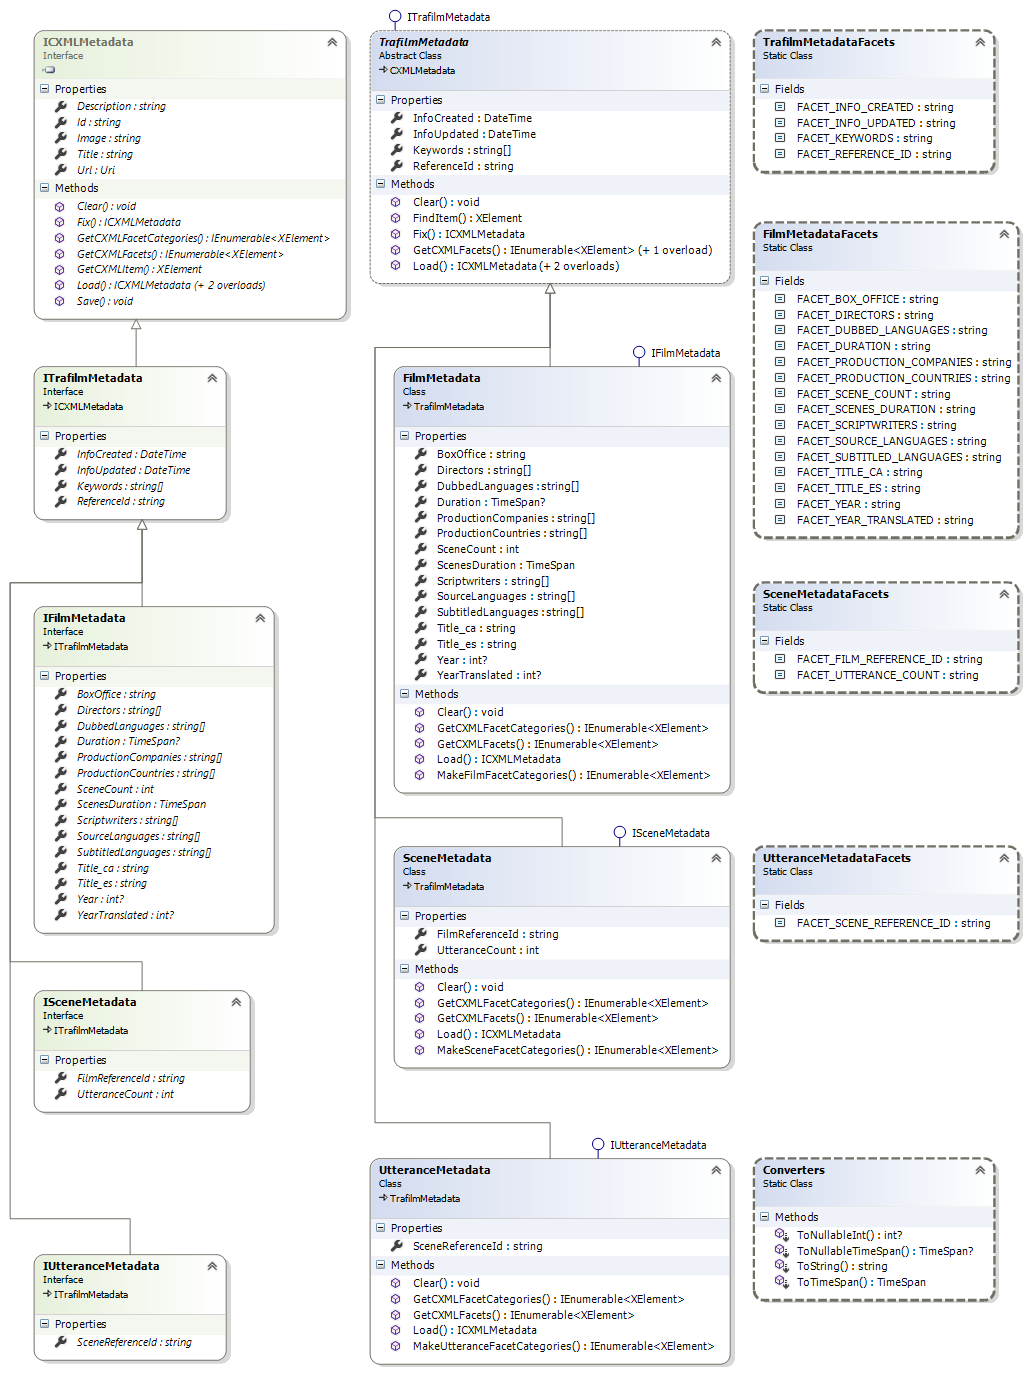
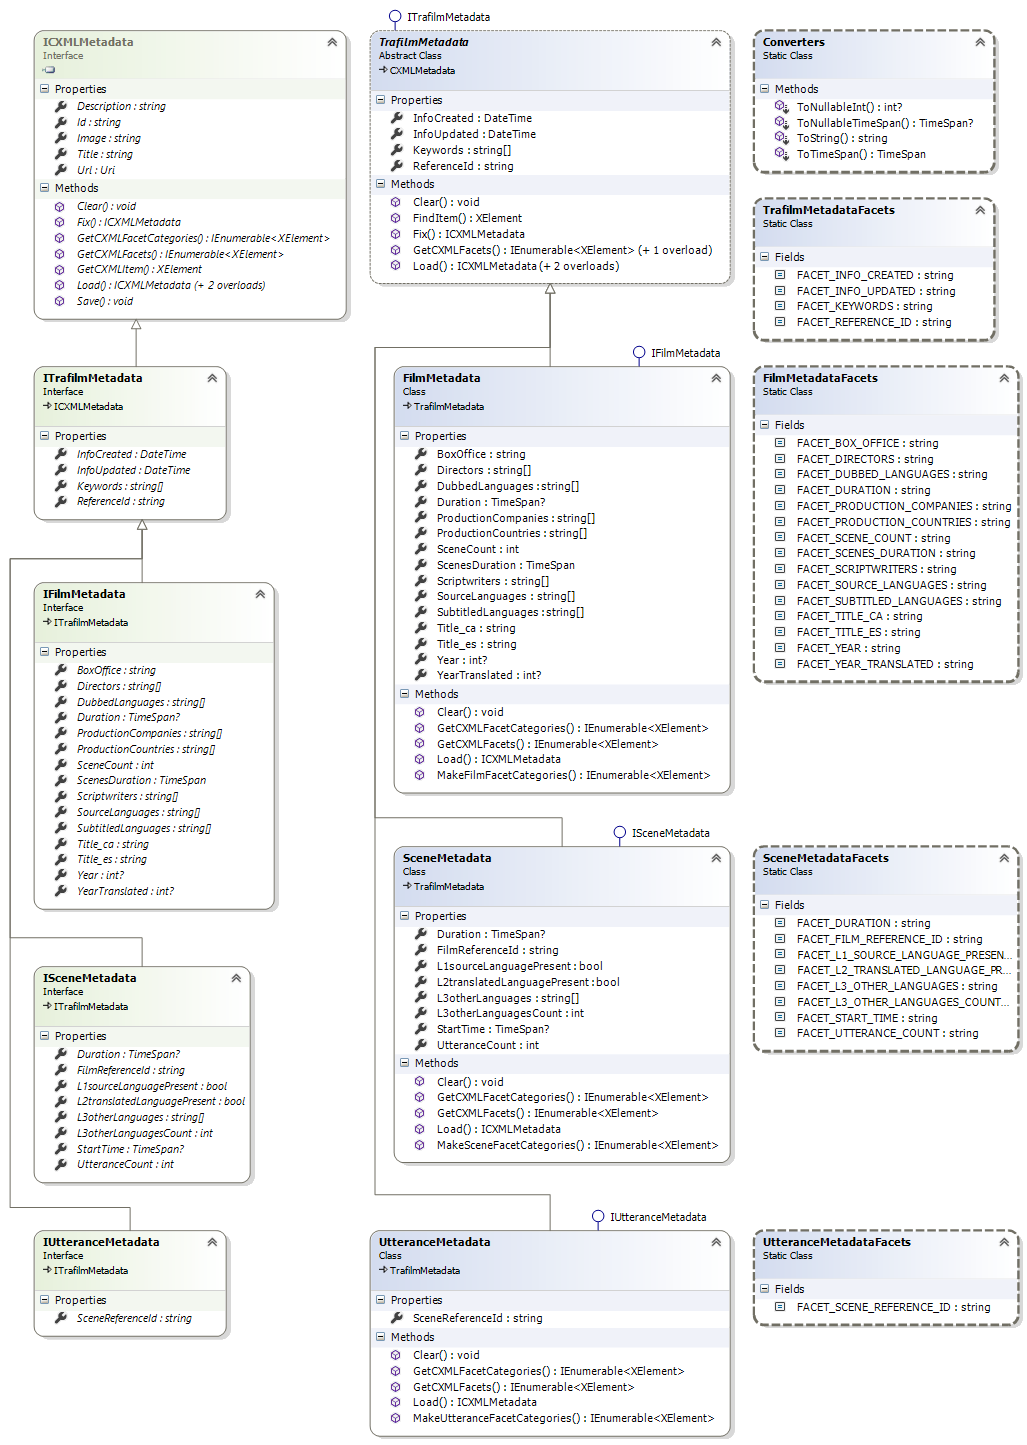
- Completed Scene metadata

diff --git a/Metadata/Scene/SceneMetadata.cs b/Metadata/Scene/SceneMetadata.cs
@@ -1,9 +1,9 @@
 //Project: Trafilm (http://trafilm.net)
 //Filename: SceneMetadata.cs
-//Version: 20160502
+//Version: 20160503
 
 using Metadata.CXML;
-
+using System;
 using System.Collections.Generic;
 using System.Xml.Linq;
 
@@ -17,7 +17,16 @@ namespace Trafilm.Metadata
 
     public string FilmReferenceId { get; set; }
 
-    //...
+    public TimeSpan? StartTime { get; set; }
+    public TimeSpan? Duration { get; set; }
+
+    public bool L1sourceLanguagePresent { get; set; }
+    public bool L2translatedLanguagePresent { get; set; }
+
+    //Calculatable//
+
+    public int L3otherLanguagesCount { get; set; }
+    public string[] L3otherLanguages { get; set; }
 
     public int UtteranceCount { get; set; }
 
@@ -31,7 +40,14 @@ namespace Trafilm.Metadata
 
       FilmReferenceId = "";
 
-      //...
+      StartTime = null;
+      Duration = null;
+
+      L1sourceLanguagePresent = true; //this is the most usual case
+      L2translatedLanguagePresent = true; //this is the most usual case
+
+      L3otherLanguagesCount = 0;
+      L3otherLanguages = new string[] { };
 
       UtteranceCount = 0;
     }
@@ -44,7 +60,14 @@ namespace Trafilm.Metadata
 
       FilmReferenceId = facets.CXMLFacetStringValue(SceneMetadataFacets.FACET_FILM_REFERENCE_ID);
 
-      //...
+      StartTime = facets.CXMLFacetStringValue(SceneMetadataFacets.FACET_START_TIME).ToNullableTimeSpan("HH:MM:SS.FF");
+      Duration = facets.CXMLFacetStringValue(SceneMetadataFacets.FACET_DURATION).ToNullableTimeSpan("MM:SS.FF");
+
+      L1sourceLanguagePresent = facets.CXMLFacetBoolValue(SceneMetadataFacets.FACET_L1_SOURCE_LANGUAGE_PRESENT);
+      L2translatedLanguagePresent = facets.CXMLFacetBoolValue(SceneMetadataFacets.FACET_L2_TRANSLATED_LANGUAGE_PRESENT);
+
+      L3otherLanguagesCount = int.Parse(facets.CXMLFacetStringValue(SceneMetadataFacets.FACET_L3_OTHER_LANGUAGES_COUNT));
+      L3otherLanguages = facets.CXMLFacetStringValues(SceneMetadataFacets.FACET_L3_OTHER_LANGUAGES);
 
       UtteranceCount = int.Parse(facets.CXMLFacetStringValue(SceneMetadataFacets.FACET_UTTERANCE_COUNT));
 
@@ -65,7 +88,14 @@ namespace Trafilm.Metadata
 
       AddNonNullToList(facets, CXML.MakeStringFacet(SceneMetadataFacets.FACET_FILM_REFERENCE_ID, FilmReferenceId));
 
-      //...
+      AddNonNullToList(facets, CXML.MakeStringFacet(SceneMetadataFacets.FACET_START_TIME, StartTime.ToString("HH:MM:SS.FF")));
+      AddNonNullToList(facets, CXML.MakeStringFacet(SceneMetadataFacets.FACET_DURATION, Duration.ToString("MM:SS.FF")));
+
+      AddNonNullToList(facets, CXML.MakeStringFacet(SceneMetadataFacets.FACET_L1_SOURCE_LANGUAGE_PRESENT, L1sourceLanguagePresent.ToString())); //this will give True/False (not Yes/No)
+      AddNonNullToList(facets, CXML.MakeStringFacet(SceneMetadataFacets.FACET_L2_TRANSLATED_LANGUAGE_PRESENT, L2translatedLanguagePresent.ToString())); //this will give True/False (not Yes/No)
+
+      AddNonNullToList(facets, CXML.MakeStringFacet(SceneMetadataFacets.FACET_L3_OTHER_LANGUAGES_COUNT, L3otherLanguagesCount.ToString()));
+      AddNonNullToList(facets, CXML.MakeStringFacet(SceneMetadataFacets.FACET_L3_OTHER_LANGUAGES, L3otherLanguages));
 
       AddNonNullToList(facets, CXML.MakeStringFacet(SceneMetadataFacets.FACET_UTTERANCE_COUNT, UtteranceCount.ToString()));
 
@@ -84,7 +114,14 @@ namespace Trafilm.Metadata
 
       result.Add(CXML.MakeFacetCategory(SceneMetadataFacets.FACET_FILM_REFERENCE_ID, CXML.VALUE_STRING, null, isFilterVisible: true, isMetadataVisible: true, isWordWheelVisible: false));
 
-      //...
+      result.Add(CXML.MakeFacetCategory(SceneMetadataFacets.FACET_START_TIME, CXML.VALUE_STRING, null, isFilterVisible: true, isMetadataVisible: true, isWordWheelVisible: true));
+      result.Add(CXML.MakeFacetCategory(SceneMetadataFacets.FACET_DURATION, CXML.VALUE_STRING, null, isFilterVisible: true, isMetadataVisible: true, isWordWheelVisible: true));
+
+      result.Add(CXML.MakeFacetCategory(SceneMetadataFacets.FACET_L1_SOURCE_LANGUAGE_PRESENT, CXML.VALUE_STRING, null, isFilterVisible: true, isMetadataVisible: true, isWordWheelVisible: true));
+      result.Add(CXML.MakeFacetCategory(SceneMetadataFacets.FACET_L2_TRANSLATED_LANGUAGE_PRESENT, CXML.VALUE_STRING, null, isFilterVisible: true, isMetadataVisible: true, isWordWheelVisible: true));
+
+      result.Add(CXML.MakeFacetCategory(SceneMetadataFacets.FACET_L3_OTHER_LANGUAGES_COUNT, CXML.VALUE_STRING, null, isFilterVisible: true, isMetadataVisible: true, isWordWheelVisible: true));
+      result.Add(CXML.MakeFacetCategory(SceneMetadataFacets.FACET_L3_OTHER_LANGUAGES, CXML.VALUE_STRING, null, isFilterVisible: true, isMetadataVisible: true, isWordWheelVisible: true));
 
       result.Add(CXML.MakeFacetCategory(SceneMetadataFacets.FACET_UTTERANCE_COUNT, CXML.VALUE_STRING, null, isFilterVisible: true, isMetadataVisible: true, isWordWheelVisible: true));
 

diff --git a/Metadata/Scene/SceneMetadataFacets.cs b/Metadata/Scene/SceneMetadataFacets.cs
@@ -1,6 +1,6 @@
 //Project: Trafilm (http://trafilm.net)
 //Filename: SceneMetadataFacets.cs
-//Version: 20160501
+//Version: 20160502
 
 namespace Trafilm.Metadata
 {
@@ -9,7 +9,16 @@ namespace Trafilm.Metadata
   {
     public const string FACET_FILM_REFERENCE_ID = "Film Reference Id";
 
-    //...
+    public const string FACET_START_TIME = "Start time (hh:mm:ss.fs)";
+    public const string FACET_DURATION = "Duration (mm:ss.fs)";
+
+    public const string FACET_L1_SOURCE_LANGUAGE_PRESENT = "L1-Source language present";
+    public const string FACET_L2_TRANSLATED_LANGUAGE_PRESENT = "L2-Translated language present";
+
+    //Calculatable//
+
+    public const string FACET_L3_OTHER_LANGUAGES_COUNT = "L3-Other language count";
+    public const string FACET_L3_OTHER_LANGUAGES = "L3-Other languages";
 
     public const string FACET_UTTERANCE_COUNT = "Utterance count";
   }

diff --git a/Metadata/Scene/ISceneMetadata.cs b/Metadata/Scene/ISceneMetadata.cs
@@ -1,6 +1,8 @@
 //Project: Trafilm (http://trafilm.net)
 //Filename: ISceneMetadata.cs
-//Version: 20160502
+//Version: 20160503
+
+using System;
 
 namespace Trafilm.Metadata
 {
@@ -12,7 +14,16 @@ namespace Trafilm.Metadata
 
     string FilmReferenceId { get; set; }
 
-    //...
+    TimeSpan? StartTime { get; set; }
+    TimeSpan? Duration { get; set; }
+
+    bool L1sourceLanguagePresent { get; set; }
+    bool L2translatedLanguagePresent { get; set; }
+
+    //Calculatable//
+
+    int L3otherLanguagesCount { get; set; }
+    string[] L3otherLanguages { get; set; }
 
     int UtteranceCount { get; set; }
 

diff --git a/Metadata/Film/FilmMetadataFacets.cs b/Metadata/Film/FilmMetadataFacets.cs
@@ -1,6 +1,6 @@
 //Project: Trafilm (http://trafilm.net)
 //Filename: FilmMetadataFacets.cs
-//Version: 20160501
+//Version: 20160502
 
 namespace Trafilm.Metadata
 {
@@ -27,6 +27,8 @@ namespace Trafilm.Metadata
     public const string FACET_YEAR_TRANSLATED = "Year translated";
     public const string FACET_DUBBED_LANGUAGES = "Dubbed languages";
     public const string FACET_SUBTITLED_LANGUAGES = "Subtitled languages";
+
+    //Calculatable//
 
     public const string FACET_SCENE_COUNT = "Scene count";
     public const string FACET_SCENES_DURATION = "Scenes duration (hh:mm:ss)";

diff --git a/Metadata/Film/FilmMetadata.cs b/Metadata/Film/FilmMetadata.cs
@@ -36,6 +36,8 @@ namespace Trafilm.Metadata
     public string[] DubbedLanguages { get; set; }
     public string[] SubtitledLanguages { get; set; }
 
+    //Calculatable//
+
     public int SceneCount { get; set; }
     public TimeSpan ScenesDuration { get; set; }
 
@@ -51,7 +53,7 @@ namespace Trafilm.Metadata
       Title_ca = "";
       //...
 
-      Duration = TimeSpan.Zero;
+      Duration = null;
 
       Directors = new string[] { };
       Scriptwriters = new string[] { };

diff --git a/Metadata/Film/IFilmMetadata.cs b/Metadata/Film/IFilmMetadata.cs
@@ -33,6 +33,8 @@ namespace Trafilm.Metadata
     string[] DubbedLanguages { get; set; }
     string[] SubtitledLanguages { get; set; }
 
+    //Calculatable//
+
     int SceneCount { get; set; }
     TimeSpan ScenesDuration { get; set; }
 
